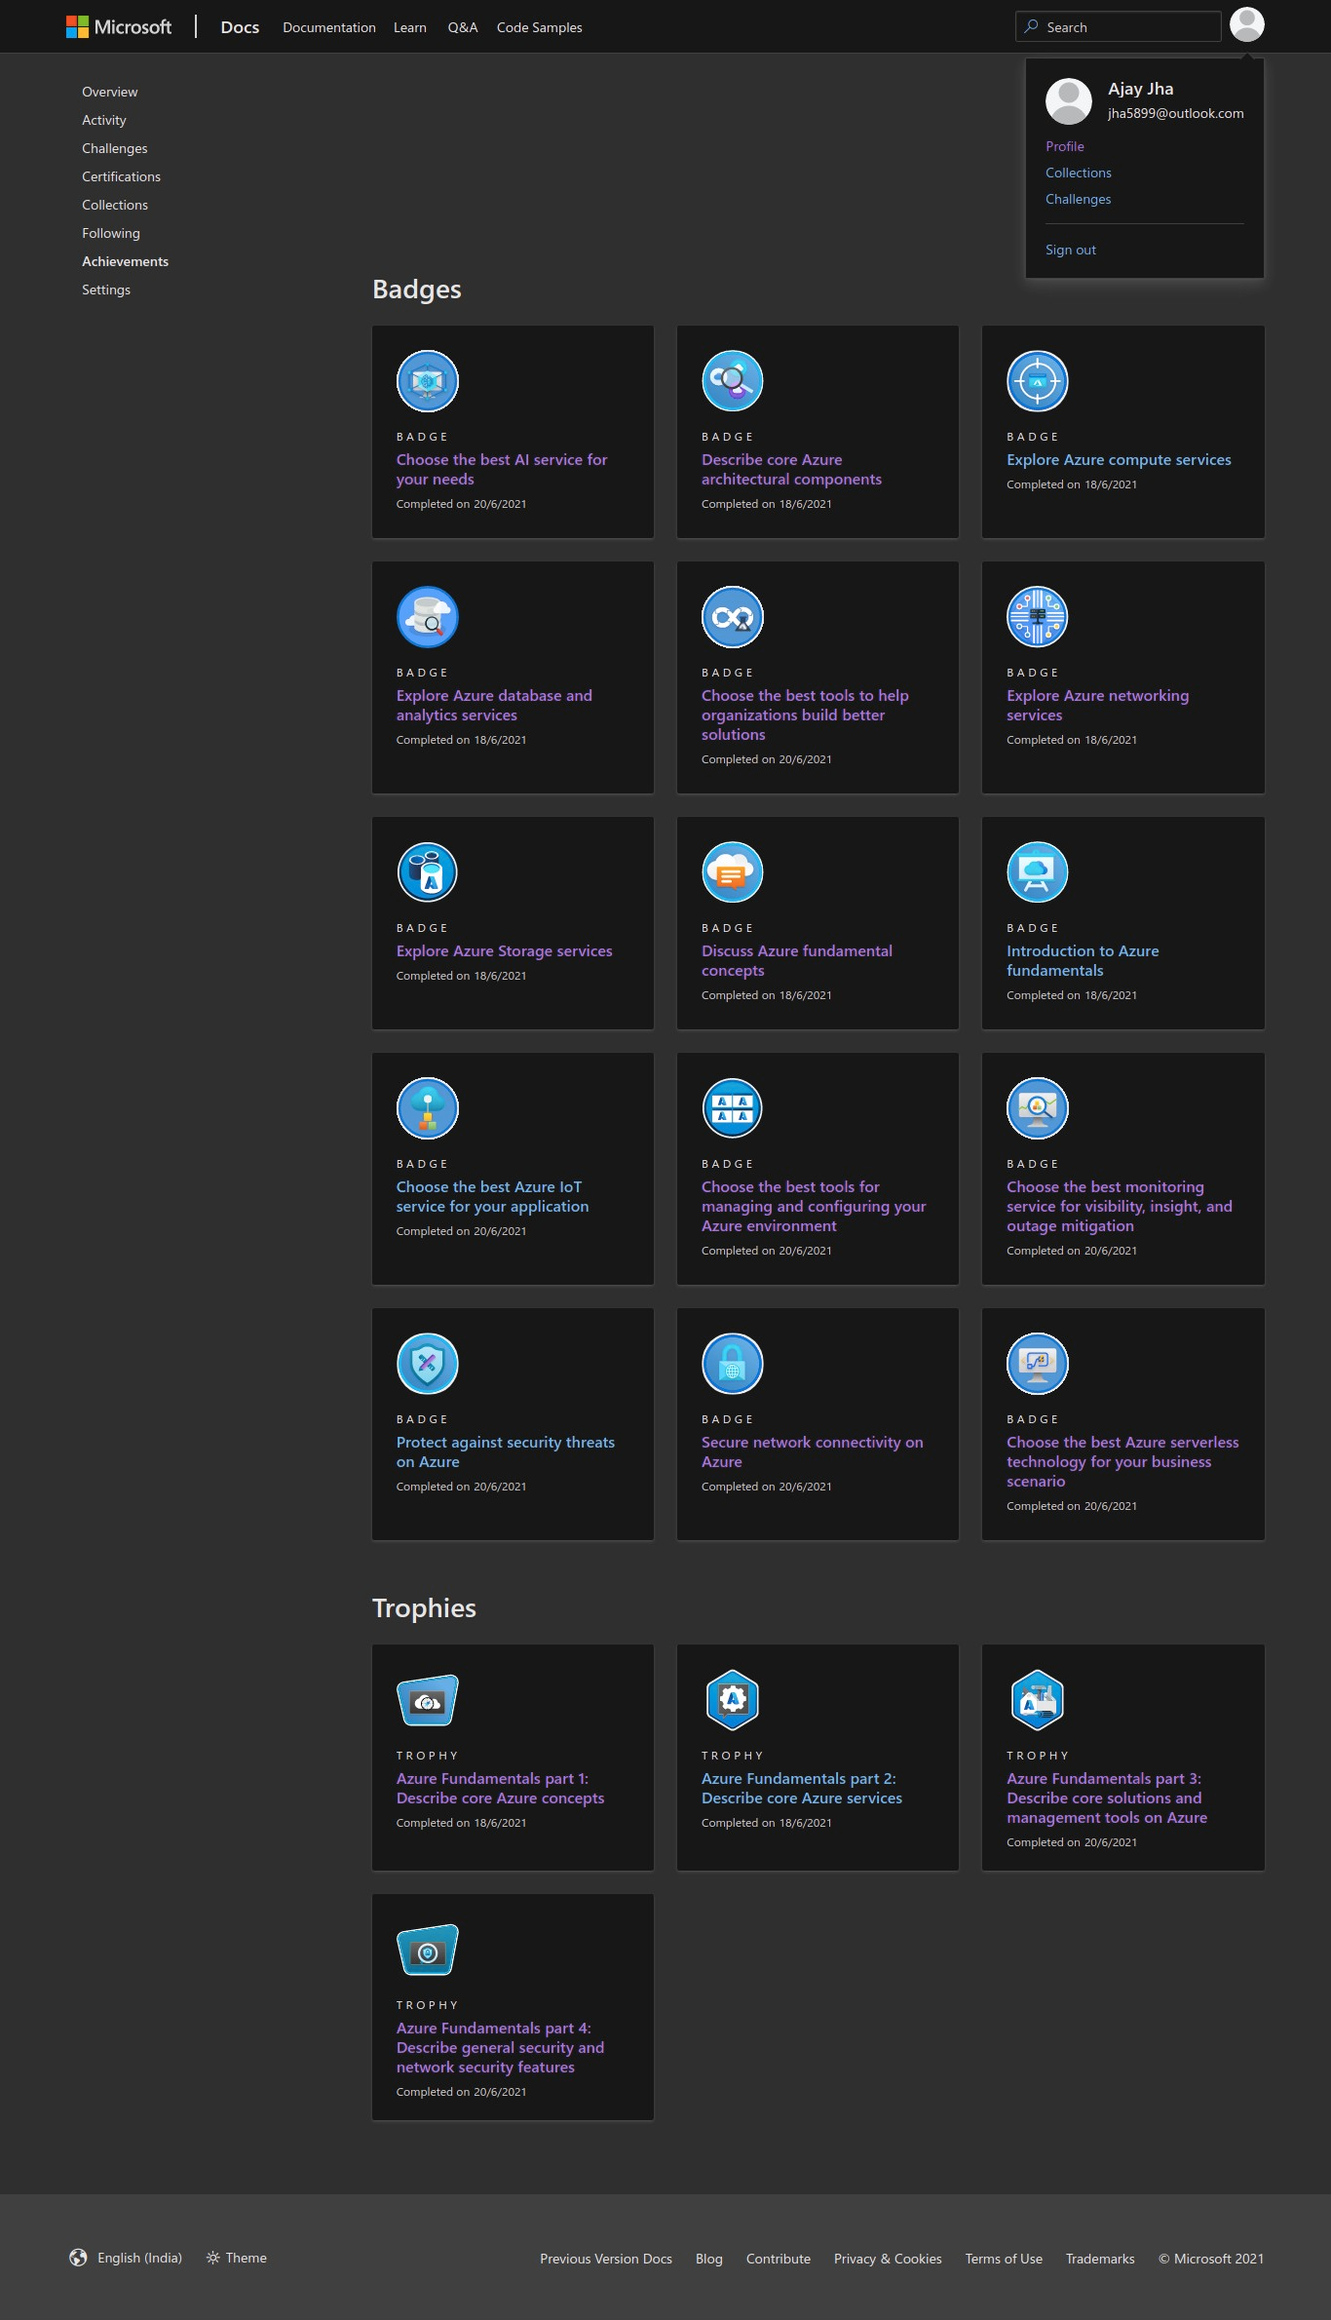
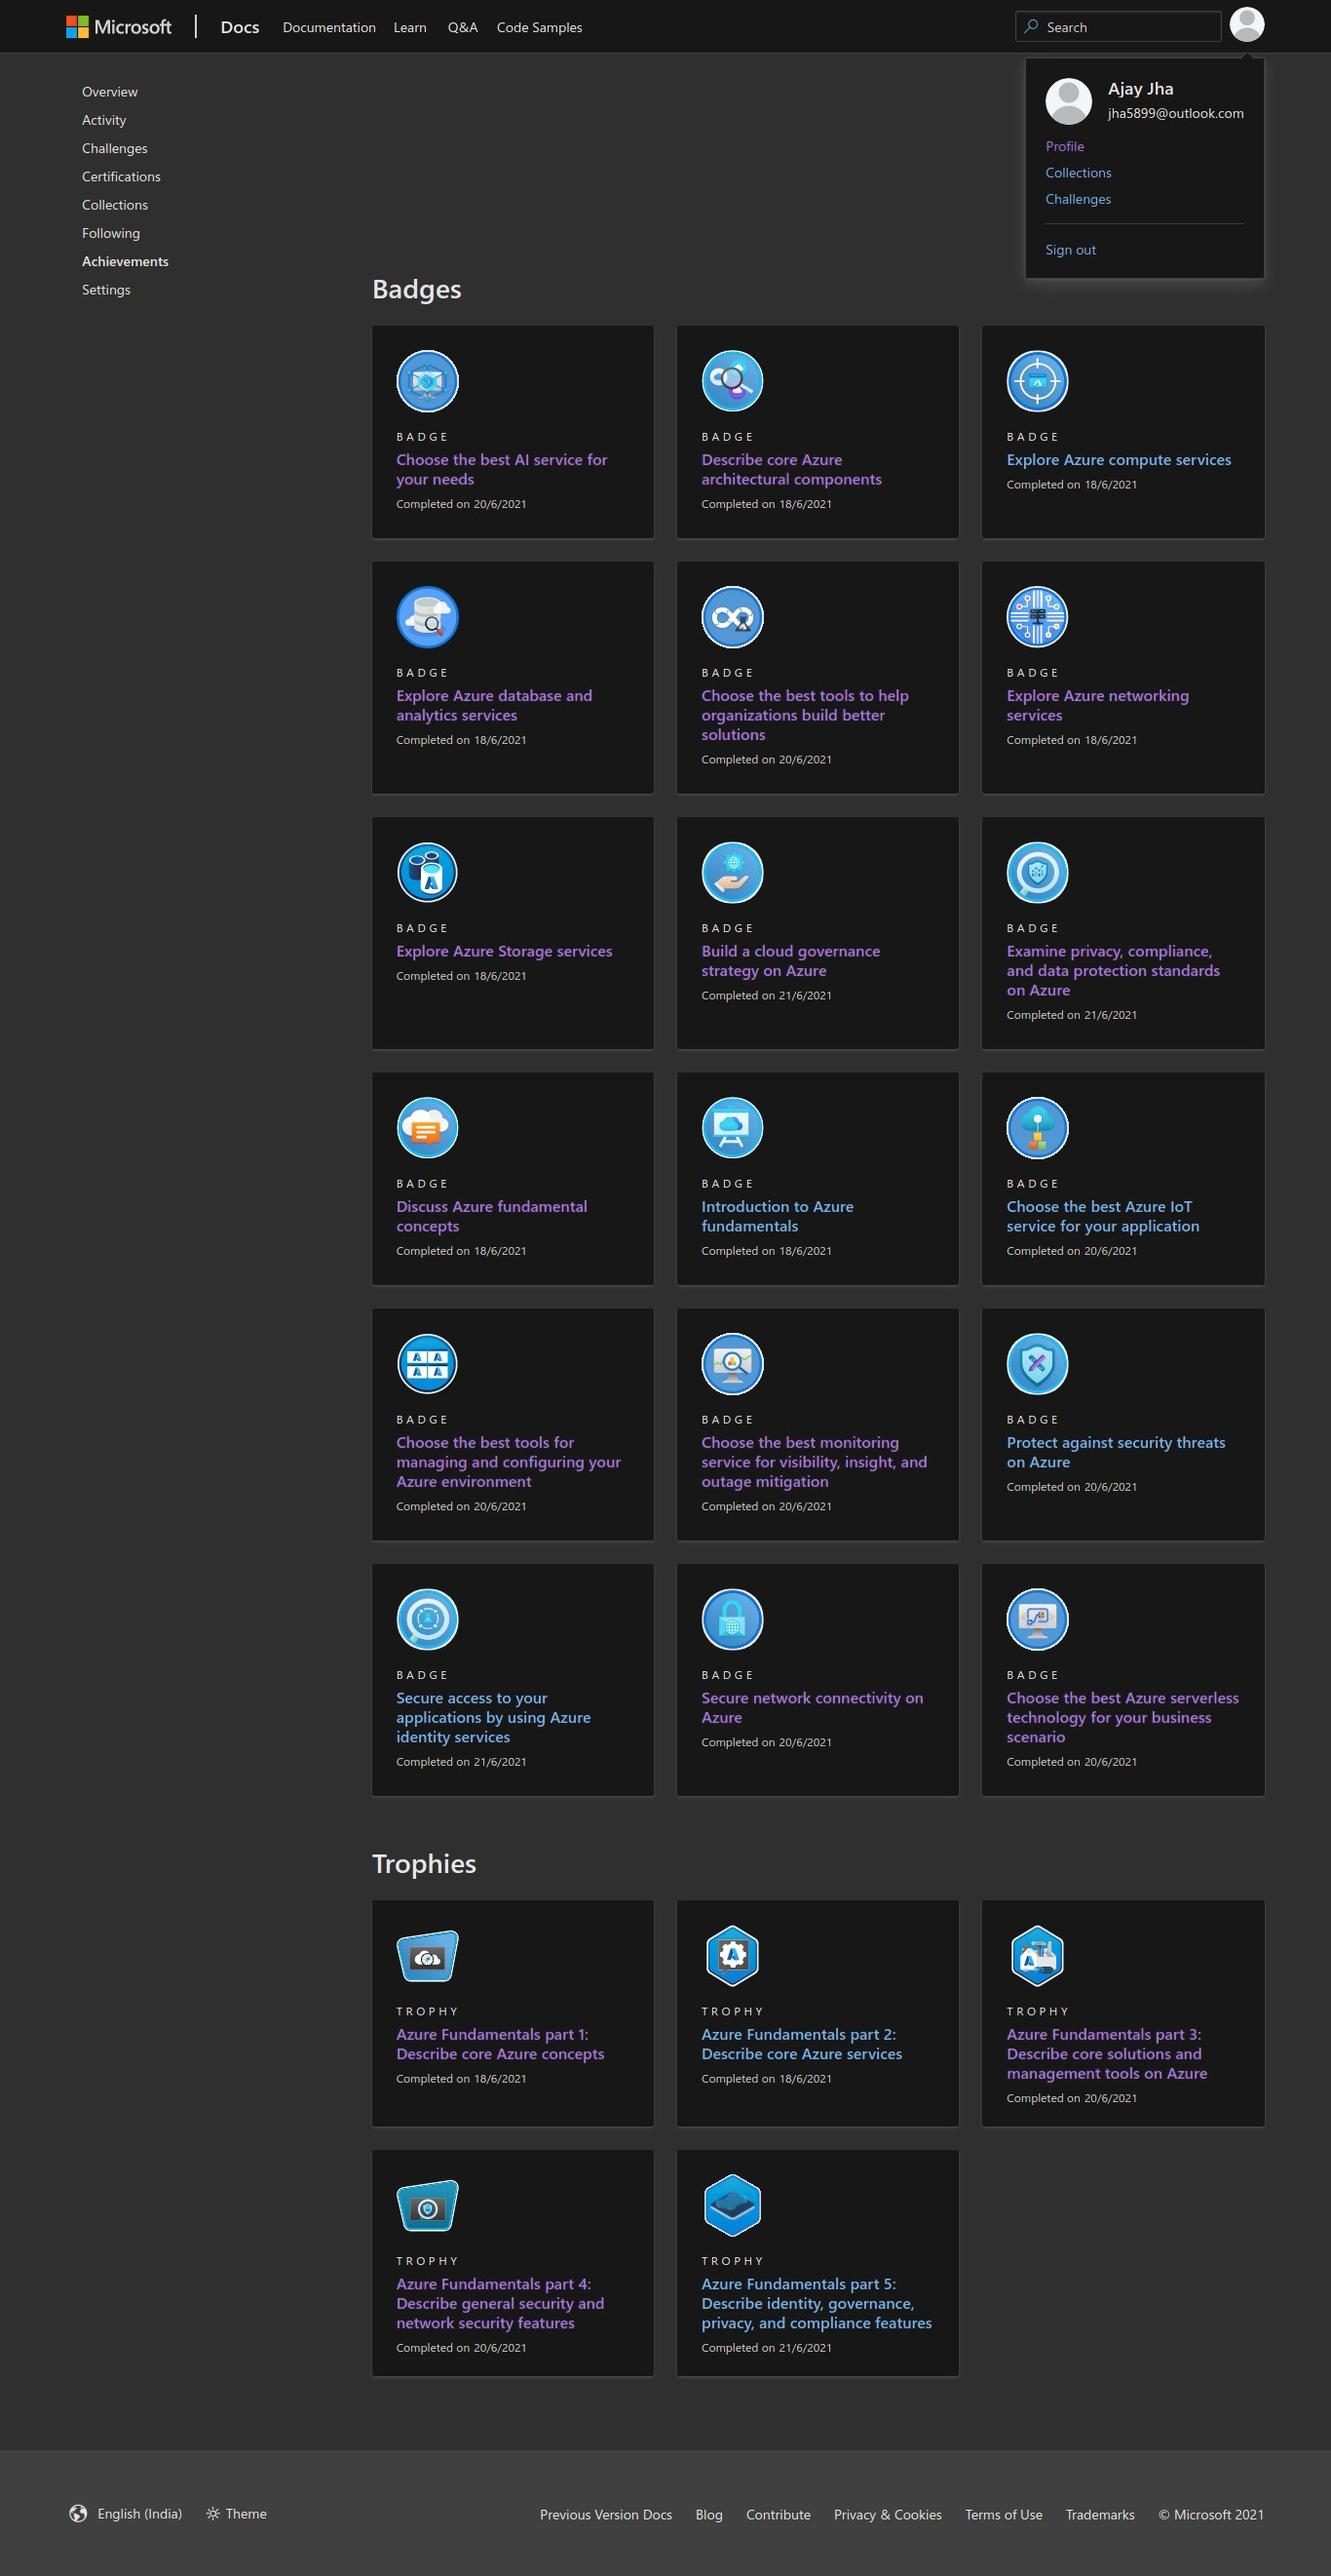
Part 5 complete

diff --git a/README.md b/README.md
@@ -11,5 +11,5 @@ Cloud Computing Badges for Ajay Jha (266995).
 |Describe core Azure services|Understand the breadth of services available in Azure including compute, network, storage, and database<br>Identify virtualization services such as Azure Virtual Machines, Azure Container Instances, Azure Kubernetes Service, and Azure Virtual Desktop<br>Compare Azure's database services such as Azure Cosmos DB, Azure SQL, Azure Database for MySQL, Azure Database for PostgreSQL, and Azure's big data and analysis services<br>Examine Azure networking resources such as Virtual Networks, VPN Gateways, and Azure ExpressRoute<br>Summarize Azure storage services such Azure Blob Storage, Azure Disk Storage, and Azure File Storage|https://docs.microsoft.com/en-us/learn/paths/az-900-describe-core-azure-services/|1|18-Jun-21|Yes|
 |Describe core solutions and management tools on Azure|Choose the correct Azure Artificial Intelligence service to address different kinds of business challenges.<br>Choose the best software development process tools and services for a given business scenario.<br>Choose the correct cloud monitoring service to address different kinds of business challenges.<br>Choose the correct Azure management tool to address different kinds of technical needs and challenges.<br>Choose the right serverless computing technology for your business scenario.<br>Choose the best Azure IoT service for a given business scenario.|https://docs.microsoft.com/en-us/learn/paths/az-900-describe-core-solutions-management-tools-azure/|2|21-Jun-21|Yes|
 |Describe general security and network security features|Learn about the various Azure services you can use to help ensure that your cloud resources are safe, secure, and trusted.|https://docs.microsoft.com/en-us/learn/paths/az-900-describe-general-security-network-security-features/|3|22-Jun-21|Yes|
-|Describe identity, governance, privacy, and compliance features|Learn how Azure can help you secure access to cloud resources, what it means to build a cloud governance strategy, and how Azure adheres to common regulatory and compliance standards.|https://docs.microsoft.com/en-us/learn/paths/az-900-describe-identity-governance-privacy-compliance-features/|4|23-Jun-21|No|
+|Describe identity, governance, privacy, and compliance features|Learn how Azure can help you secure access to cloud resources, what it means to build a cloud governance strategy, and how Azure adheres to common regulatory and compliance standards.|https://docs.microsoft.com/en-us/learn/paths/az-900-describe-identity-governance-privacy-compliance-features/|4|23-Jun-21|Yes|
 |Describe Azure cost management and service level agreements|Learn about the factors that influence cost, tools you can use to help estimate and manage your cloud spend, and how Azure's service-level agreements (SLAs) can impact your application design decisions.|https://docs.microsoft.com/en-us/learn/paths/az-900-describe-azure-cost-management-service-level-agreements/|5|24-Jun-21|No|
